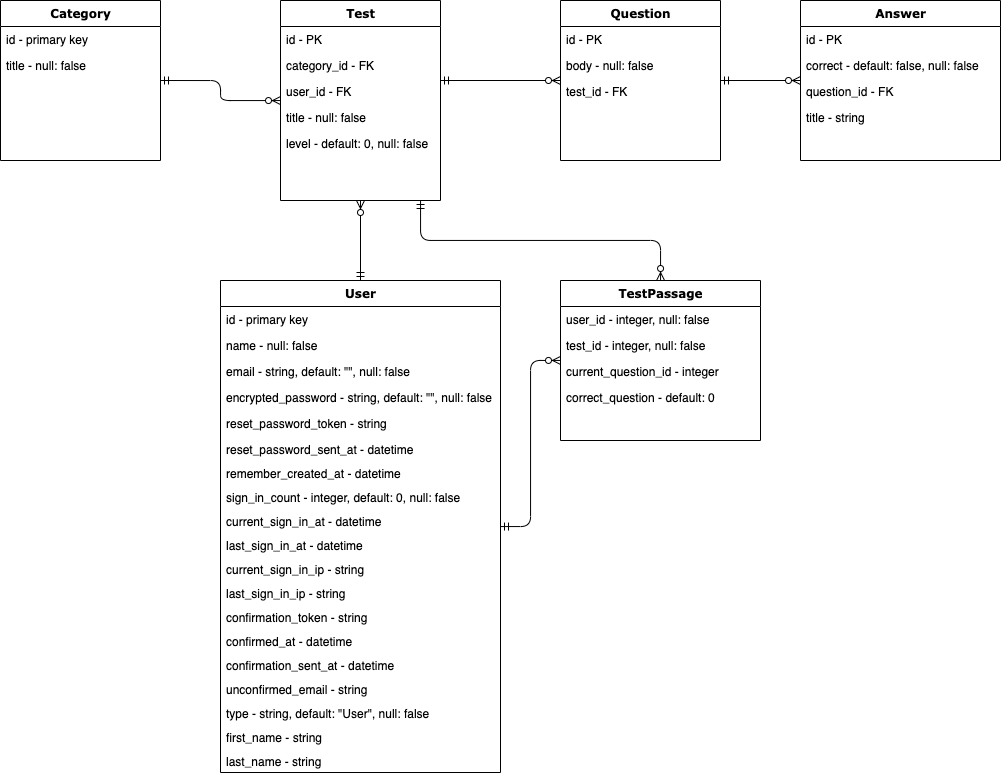
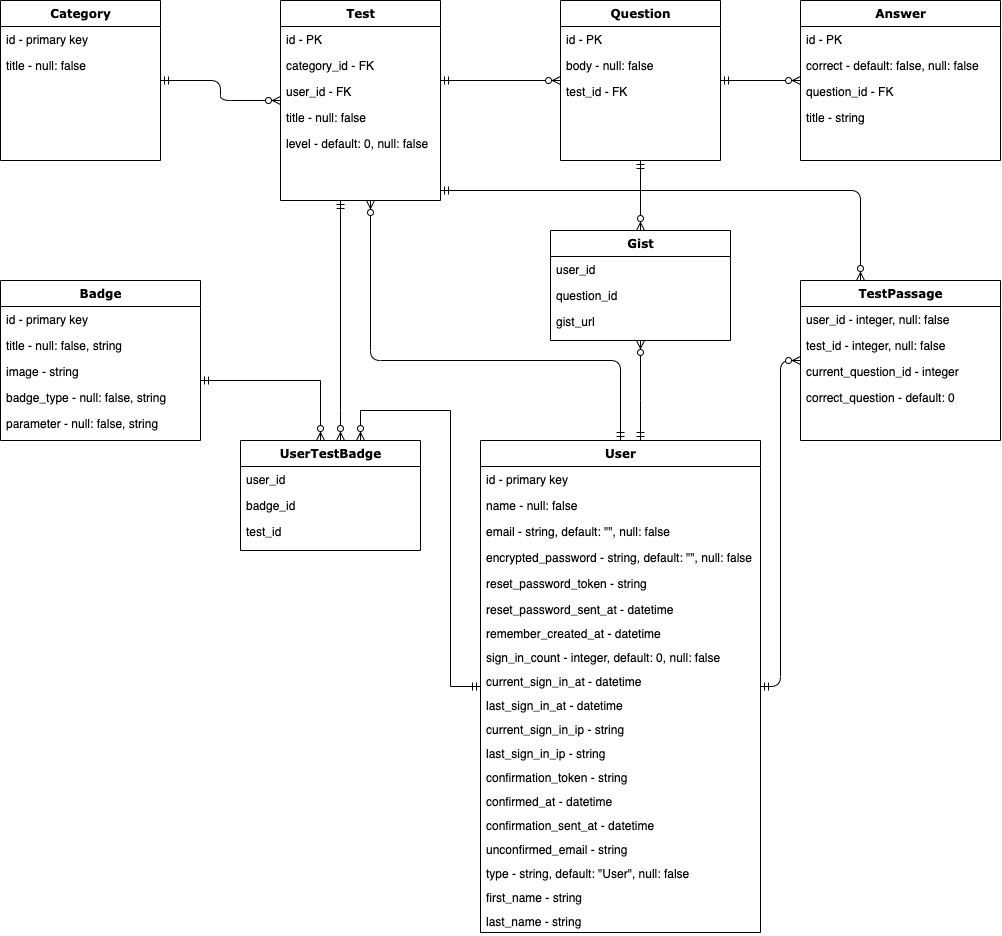
lesson 18 badges: renamed UserBadge to UserTestBadge, updated er diagram, refactored level

diff --git a/db/schema.rb b/db/schema.rb
@@ -82,15 +82,15 @@ ActiveRecord::Schema.define(version: 2021_07_05_181651) do
     t.index ["user_id"], name: "index_tests_on_user_id"
   end
 
-  create_table "user_badges", force: :cascade do |t|
+  create_table "user_test_badges", force: :cascade do |t|
     t.bigint "user_id", null: false
     t.bigint "badge_id", null: false
     t.bigint "test_id", null: false
     t.datetime "created_at", precision: 6, null: false
     t.datetime "updated_at", precision: 6, null: false
-    t.index ["badge_id"], name: "index_user_badges_on_badge_id"
-    t.index ["test_id"], name: "index_user_badges_on_test_id"
-    t.index ["user_id"], name: "index_user_badges_on_user_id"
+    t.index ["badge_id"], name: "index_user_test_badges_on_badge_id"
+    t.index ["test_id"], name: "index_user_test_badges_on_test_id"
+    t.index ["user_id"], name: "index_user_test_badges_on_user_id"
   end
 
   create_table "users", force: :cascade do |t|
@@ -128,7 +128,7 @@ ActiveRecord::Schema.define(version: 2021_07_05_181651) do
   add_foreign_key "test_passages", "users"
   add_foreign_key "tests", "categories"
   add_foreign_key "tests", "users"
-  add_foreign_key "user_badges", "badges"
-  add_foreign_key "user_badges", "tests"
-  add_foreign_key "user_badges", "users"
+  add_foreign_key "user_test_badges", "badges"
+  add_foreign_key "user_test_badges", "tests"
+  add_foreign_key "user_test_badges", "users"
 end

diff --git a/app/services/badges_service.rb b/app/services/badges_service.rb
@@ -15,12 +15,12 @@ class BadgesService
   end
 
   def create_badge(badge)
-    @user_badge = UserBadge.new(
+    @user_test_badge = UserTestBadge.new(
       test_id: @test_passage.test.id,
       user_id: @user.id,
       badge_id: badge.id
     )
-    errors.add(:badges, :invalid) unless @user_badge.save
+    errors.add(:badges, :invalid) unless @user_test_badge.save
   end
 
   def all_tests_at_category(category_title)
@@ -34,7 +34,7 @@ class BadgesService
   end
 
   def all_tests_at_level(level)
-    return false if level != @test_passage.test.level
+    return false if level.to_i != @test_passage.test.level
 
     tests = Test.where(level: level).pluck(:id)
     completed = @test_passage

diff --git a/app/models/test.rb b/app/models/test.rb
@@ -4,8 +4,8 @@ class Test < ApplicationRecord
   has_many :questions, dependent: :destroy
   has_many :test_passages, dependent: :destroy
   has_many :users, through: :test_passages
-  has_many :user_badges, dependent: :destroy
-  has_many :badge, through: :user_badges
+  has_many :user_test_badges, dependent: :destroy
+  has_many :badge, through: :user_test_badges
 
   scope :by_level, -> (level) { where(level: level) }
   scope :easy, -> { by_level(1) }

diff --git a/app/models/badge.rb b/app/models/badge.rb
@@ -1,9 +1,9 @@
 class Badge < ApplicationRecord
   RULE_TYPES = %i[all_tests_at_category passing_test_at_first_attempt all_tests_at_level]
 
-  has_many :user, through: :user_badges
-  has_many :test, through: :user_badges
-  has_many :user_badges
+  has_many :user, through: :user_test_badges
+  has_many :test, through: :user_test_badges
+  has_many :user_test_badges
 
   validates :title, presence: true
   validates :badge_type, presence: true

diff --git a/app/models/user.rb b/app/models/user.rb
@@ -11,8 +11,8 @@ class User < ApplicationRecord
   has_many :tests, through: :test_passages
   has_many :created_tests, class_name: 'Test'
   has_many :gists
-  has_many :user_badges, dependent: :destroy
-  has_many :badge, through: :user_badges
+  has_many :user_test_badges, dependent: :destroy
+  has_many :badge, through: :user_test_badges
 
   validates :last_name, presence: true
   validates :first_name, presence: true

diff --git a/db/migrate/20210629174238_create_user_test_badges.rb b/db/migrate/20210629174238_create_user_test_badges.rb
@@ -1,6 +1,6 @@
-class CreateUserBadges < ActiveRecord::Migration[6.1]
+class CreateUserTestBadges < ActiveRecord::Migration[6.1]
   def change
-    create_table :user_badges do |t|
+    create_table :user_test_badges do |t|
       t.references :user, null: false, foreign_key: true
       t.references :badge, null: false, foreign_key: true
       t.references :test, null: false, foreign_key: true

diff --git a/app/models/user_test_badge.rb b/app/models/user_test_badge.rb
@@ -1,4 +1,4 @@
-class UserBadge < ApplicationRecord
+class UserTestBadge < ApplicationRecord
   belongs_to :user
   belongs_to :badge
   belongs_to :test
